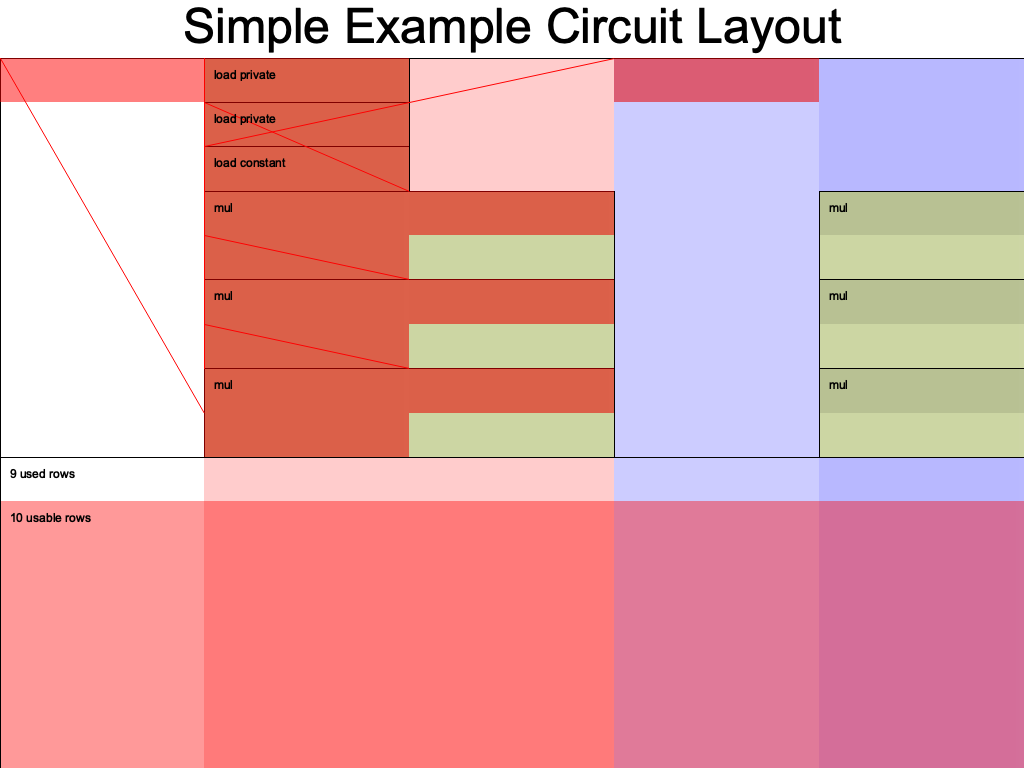
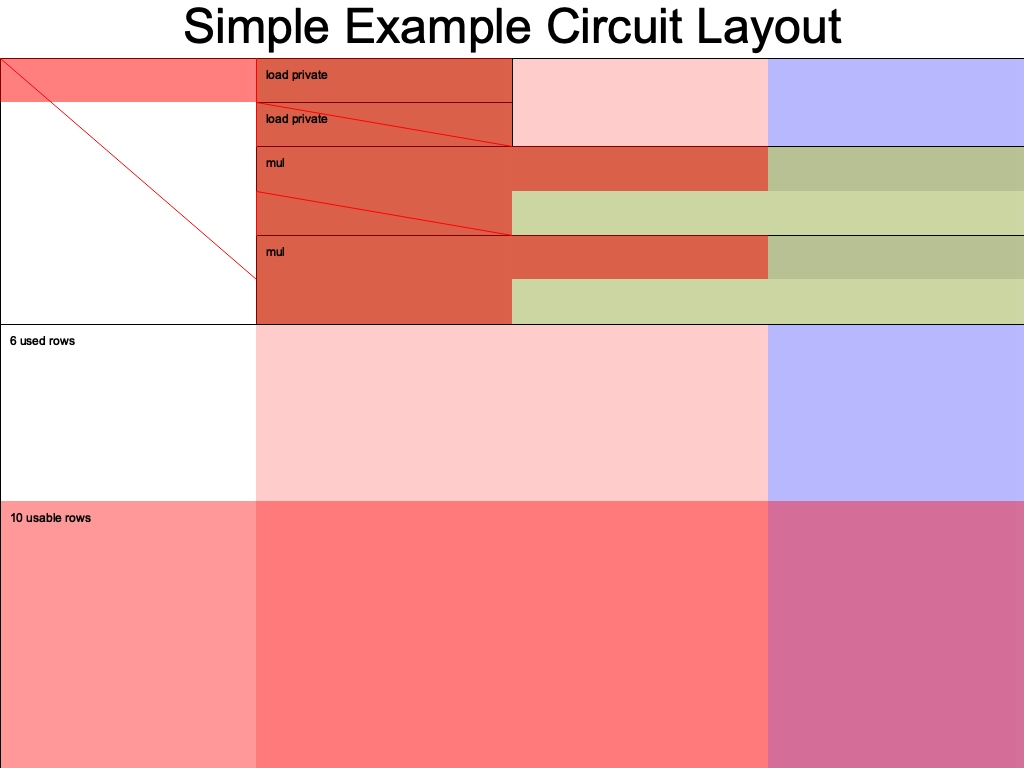
Remove constant in simple example

diff --git a/examples/simple_example.rs b/examples/simple_example.rs
@@ -4,7 +4,7 @@ use halo2_proofs::{
     circuit::{AssignedCell, Chip, Layouter, Region, SimpleFloorPlanner, Value},
     dev::CircuitLayout,
     halo2curves::{pasta::Fp, FieldExt},
-    plonk::{Advice, Circuit, Column, ConstraintSystem, Error, Fixed, Instance, Selector},
+    plonk::{Advice, Circuit, Column, ConstraintSystem, Error, Instance, Selector},
     poly::Rotation,
 };
 
@@ -15,9 +15,6 @@ trait NumericInstructions<F: FieldExt>: Chip<F> {
 
     /// Loads a number into the circuit as a private input.
     fn load_private(&self, layouter: impl Layouter<F>, a: Value<F>) -> Result<Self::Num, Error>;
-
-    /// Loads a number into the circuit as a fixed constant.
-    fn load_constant(&self, layouter: impl Layouter<F>, constant: F) -> Result<Self::Num, Error>;
 
     /// Returns `c = a * b`.
     fn mul(
@@ -78,10 +75,8 @@ impl<F: FieldExt> FieldChip<F> {
         meta: &mut ConstraintSystem<F>,
         advice: [Column<Advice>; 2],
         instance: Column<Instance>,
-        constant: Column<Fixed>,
     ) -> <Self as Chip<F>>::Config {
         meta.enable_equality(instance);
-        meta.enable_constant(constant);
         for column in &advice {
             meta.enable_equality(*column);
         }
@@ -166,23 +161,6 @@ impl<F: FieldExt> NumericInstructions<F> for FieldChip<F> {
         )
     }
 
-    fn load_constant(
-        &self,
-        mut layouter: impl Layouter<F>,
-        constant: F,
-    ) -> Result<Self::Num, Error> {
-        let config = self.config();
-
-        layouter.assign_region(
-            || "load constant",
-            |mut region| {
-                region
-                    .assign_advice_from_constant(|| "constant value", config.advice[0], 0, constant)
-                    .map(Number)
-            },
-        )
-    }
-
     fn mul(
         &self,
         mut layouter: impl Layouter<F>,
@@ -240,7 +218,6 @@ impl<F: FieldExt> NumericInstructions<F> for FieldChip<F> {
 /// were `None` we would get an error.
 #[derive(Default)]
 struct MyCircuit<F: FieldExt> {
-    constant: F,
     a: Value<F>,
     b: Value<F>,
 }
@@ -261,10 +238,7 @@ impl<F: FieldExt> Circuit<F> for MyCircuit<F> {
         // We also need an instance column to store public inputs.
         let instance = meta.instance_column();
 
-        // Create a fixed column to load constants.
-        let constant = meta.fixed_column();
-
-        FieldChip::configure(meta, advice, instance, constant)
+        FieldChip::configure(meta, advice, instance)
     }
 
     fn synthesize(
@@ -278,24 +252,18 @@ impl<F: FieldExt> Circuit<F> for MyCircuit<F> {
         let a = field_chip.load_private(layouter.namespace(|| "load a"), self.a)?;
         let b = field_chip.load_private(layouter.namespace(|| "load b"), self.b)?;
 
-        // Load the constant factor into the circuit.
-        let constant =
-            field_chip.load_constant(layouter.namespace(|| "load constant"), self.constant)?;
-
         // We only have access to plain multiplication.
         // We could implement our circuit as:
         //     asq  = a*a
         //     bsq  = b*b
-        //     absq = asq*bsq
-        //     c    = constant*asq*bsq
+        //     c    = asq*bsq
         //
         // but it's more efficient to implement it as:
         //     ab   = a*b
         //     absq = ab^2
         //     c    = constant*absq
         let ab = field_chip.mul(layouter.namespace(|| "a * b"), a, b)?;
-        let absq = field_chip.mul(layouter.namespace(|| "ab * ab"), ab.clone(), ab)?;
-        let c = field_chip.mul(layouter.namespace(|| "constant * absq"), constant, absq)?;
+        let c = field_chip.mul(layouter.namespace(|| "ab * ab"), ab.clone(), ab)?;
 
         // Expose the result as a public input to the circuit.
         field_chip.expose_public(layouter.namespace(|| "expose c"), c, 0)
@@ -312,14 +280,12 @@ fn main() {
     let k = 4;
 
     // Prepare the private and public inputs to the circuit!
-    let constant = Fp::from(7);
     let a = Fp::from(2);
     let b = Fp::from(3);
-    let c = constant * a.square() * b.square();
+    let c = a.square() * b.square();
 
     // Instantiate the circuit with the private inputs.
     let circuit = MyCircuit {
-        constant,
         a: Value::known(a),
         b: Value::known(b),
     };
